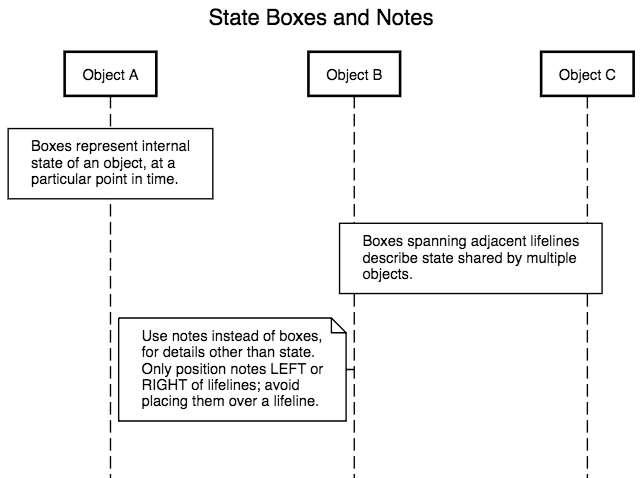
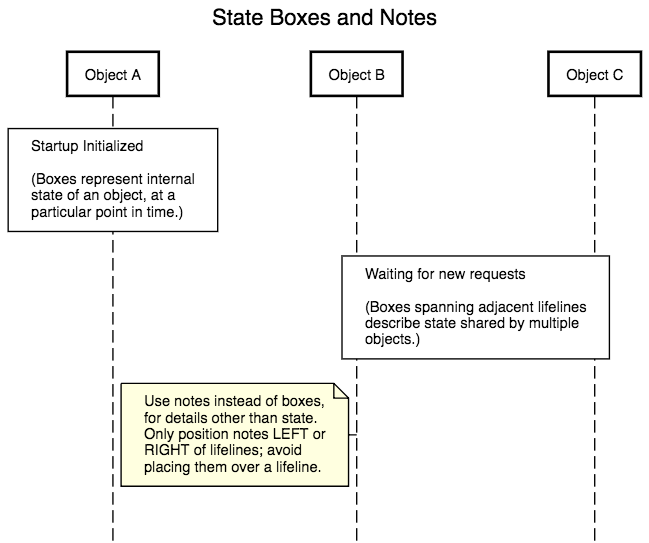
Added edits and wordsmithing for first version.

diff --git a/sequence_diagrams/doc/Sequence_Diagrams.md b/sequence_diagrams/doc/Sequence_Diagrams.md
@@ -1,10 +1,12 @@
 # Sequence Diagrams
 
-Sequence Diagrams, sometimes called Event Diagrams or Interaction Models, are depictions of active _thingies_ (objects, agents, actors, servers, processes, etc.) that interact by passing _stuff_ (messages) between each other. 
+Sequence Diagrams, sometimes called Event Diagrams or Interaction Models, are depictions of active _thingies_ (objects, agents, actors, user interfaces, servers, processes, etc.) that interact by passing _stuff_ (messages) between each other. 
 
-These diagrams are particularly useful because they directly represent the passage of time as you move down the diagram.
+Such diagrams are useful because they directly represent the passage of time as you move down the diagram. Because of this, they can be very useful in conversations about user stories.
 
-## 1. Introducing Sequence Diagrams
+This document is an introduction to these types of drawings, what they mean, and some recommendations for best practices. It is also demonstrates a web-based drawing tool called [Sequence Diagram] which was used to draw all of this documents diagrams.
+
+## 1 Introducing Sequence Diagrams
 
 To provide some motivation, here is an example sequence diagram that might have been part of a user story called "User Can Update Content". Such a user story might have several use-case scenarios which can become fairly complex but are, nevertheless, very important to understanding exactly what happens. This diagram might have been used to capture how a particular use-case, "Set in_use Status" might be designed.
 
@@ -16,29 +18,42 @@ As I hope is evident from this example, the diagram clearly communicates the ess
 
 In addition, because they are simple to draw (particularly on a whiteboard) and straightforward to understand, a complex user story might use a half-dozen or more sequence diagrams to convey edge conditions and test scenarios.
 
-But, there are a couple of problems with sequence diagrams. First, although they are easy to draw by hand, they are kind of hard to draw by computer. And Second, the full and formal conventions of sequence diagrams is more complicated than is required for our purposes.
+But, there are a couple of problems with sequence diagrams. First, although they are easy to draw by hand, they are kind of hard to draw by computer. And Second, the full and formal conventions of sequence diagrams is more complicated than is required for our purposes. These problems are addressed in the next two sections.
 
-## 2. A Drawing Tool
+## 2 Drawing Tool
 
 Trying to draw a sequence diagram with a general purpose drawing program is pretty time consuming. Although, they are pretty quick to draw on a whiteboard! 
 
-> **Hint:** I have often sketched a sequence digram during a conversation and photographed the result on the whiteboard with my phone. Although this is less than satisfying for remote meetings, in face-to-face collaborations, it's a great for rapidly fleshing out the details of a use-case or testing scenario.
+> **Recommended:** I have often sketched a sequence digram during a conversation and photographed the result on the whiteboard with my phone. Although this is less than satisfying for remote meetings, in face-to-face collaborations, it's a great for rapidly fleshing out the details of a use-case or testing scenario. If you have the chance, try it sometime.
 
-Lucky for us, there's a tool available for drawing these pretty diagrams. Check out the free web tool, [Sequence Diagram]. This tool converts a textual description into a PNG, SVG, or JPG graphic suitable for pasting into a document or a user story. It's a little creaky; but, it gets the job done.
+Lucky for us, there's a tool available for drawing these pretty diagrams. Check out the free web tool, [Sequence Diagram]. This tool converts a textual description of the diagram into a PNG, SVG, or JPG graphic suitable for pasting into a document or a user story. It's a little creaky; but, it gets the job done.
 
 > **Recommended:** Navigate to [Sequence Diagram] and click the ![](help_button.png) button icon, in the upper-left corner. This will show you all the bells and whistles.
 
-In addition to generating the pretty pictures, the [Sequence Diagram] tool also provides a WYSIWYG editor. Most of these diagrams started out by "drawing" with the mouse. After that, the diagrams were polished by some hand-edits to the source text. This turns out to be pretty fast for creating an acceptable diagram.
+In addition to generating the pretty pictures, the [Sequence Diagram] tool is also a WYSIWYG editor. These diagrams were created by "drawing" with the mouse. After that, they were polished by some hand-edits to the source text. This turns out to be pretty quick for creating an acceptable diagram.
 
-## 3. A Useful Subset of Sequence Diagram Conventions
+## 3 A Useful Subset of Sequence Diagram Conventions
 
 The formal definition of the sequence diagram notation grew out of the UML software engineering tools fad of the mid 1990's. Many conventions were adopted and rigorously defined; however, most of these conventions are overkill for our purposes.
 
 This document, describes a useful subset of the notation and the relevant textual representations used in [Sequence Diagram].
 
-> **Note:** Keep in mind that the simpler the set of conventions we adopt, the more understandable the diagrams will be to the widest possible audience. This document only shows the few sequence diagram elements I think we need to provide the most value.
+> **Note:** Keep in mind that the simpler the set of conventions we adopt, the more understandable the diagrams will be to the widest possible audience. This document shows only those diagram elements I think are needed to provide the most value.
 
-## 4. We Need Some _Thingies_
+A synopsis of this subset is described here, in one compact place, and then amplified in the rest of this document. This section may make more sense, after having read this document once.
+
+| Applies To | Best Practice |
+|---|---|
+| Thingies | Use only _participants_, _actors_, or _databases_. |
+| StateBoxes | Place _state-boxes_ "over" or "spanning" lifelines, never to the side of a lifeline. |
+| Notes | Fill _notes_ with a pale-yellow background; only place to the left or right side of a lifeline, never "over" or "spanning" a lifeline. |
+| Lifelines | Use the color of lifelines (and their thingies) to indicate identity over multiple sequence diagrams. Optional: use activations for clarity. |
+| Labels/Text | Embed `\n` characters in message labels, boxes, and notes, to limit the width of the box and keep the diagram more presentable. |
+| Fragments | Limit fragment use to just the Loop- and Alt-fragments. |
+
+Avoid, if possible, features of tool beyond this very limited subset.
+
+## 4 Let's Make Some _Thingies_
 
 The _thingies_, the objects that send/receive messages, run across the top of the diagram. There are three types of _thingies_ that are most often used:
 
@@ -67,11 +82,11 @@ Each one of these has a lifeline that is represented by a dashed line running do
 
 > **Hint:** Activations can often clarify a diagram but the gist of the sequence can usually be understood without them. I rarely take the time to draw them on a whiteboard, but I usually add them to more formally prepared diagrams. They should be treated as an optional notational convention.
 
-## 5. Making _Thingies_ Talk
+## 5 Making _Thingies_ Talk To Each Other
 
 Horizontal arrows represent messages being set from one _thingie_ to another _thingie_. There are some subtle differences in the styling of the arrows that have utility when capturing a "conversation" between _thingies_.
 
-The exact conventions for what, exactly, the line styles mean have changed over the years. For this reason, this document suggests a small set of meanings that have worked well in practice.
+The exact conventions for what, exactly, the line styles mean, have changed over the years. For this reason, this document suggests a small set of meanings that work well in practice.
 
 |       Symbology        || Meaning & Usage                |
 |:-----:|-----------------|--------------------------------|
@@ -84,13 +99,13 @@ The exact conventions for what, exactly, the line styles mean have changed over 
 
 Given two line styles and two arrowhead styles, we have four possible combinations; however, only three of these are used in common practice.
 
-The following shows an example of all three plus the very special _synchronous message to self_. This technique is used to detail something like a sub-routine call that is significant to the user-case.
+The following shows an example of all three plus the very special, and rarely used, _synchronous-message-to-self_. This technique is used to detail something like a sub-routine call that is significant to the user-case.
 
 <p align="center">
   <img src="TypesOfMessages.png">
 </p>
 
-## 6. An Example
+## 6 An Example
 
 Let's put what we've just discussed together using a fictional sequence of messages, between semi-fictional thingies. Let's start with the [Sequence Diagram] source description.
 
@@ -161,53 +176,56 @@ Pretty cool, eh?
 
 > **Best Practice:** There are many more things you can do with messages, but once again, less is more. You can model most real-world interactions with just these 3 message types.
 
-## 7. State Boxes and Notes
+## 7 State Boxes and Notes
 
-The diagrams shown so far show the _thingies_ and all the _stuff_ that passes between them. All that is pretty useful, but our sequence diagrams become much more descriptive when we can attach information to our lifelines. This information comes in the form of _state boxes_ and _notes_.
+The diagrams, shown so far, show the _thingies_ and all the _stuff_ that passes between them. All that is pretty useful, but our sequence diagrams become much more descriptive when we can attach information to the lifelines. This information comes in the form of _state boxes_ and _notes_.
 
 **State Boxes**
 
-Since the state of an object changes over time, usually, in response to messages it has received, sequence diagrams capture these states by a box that is drawn over the lifeline of the object. These boxes can also be extended to span across more than one (adjacent) object's lifeline to indicate a state that is shared or synchronized in time.
+Since the state of an object changes over time, usually, in response to messages it has received, sequence diagrams can capture these states by a box that is drawn over the lifeline of the object. These boxes can also be extended to span across more than one (adjacent) object's lifeline to indicate a state that is shared or synchronized in time.
 
-Similarly, notes are attached to lifelines, at particular points in time, and are indicated with the "turned-down-corner" box shape. The note should never appear over or spanning a lifeline, but rather, to the side of a lifeline.
+> **Best Practice:** Although several different shapes, for example, rounded boxes, are supported by [Sequence Diagram], using more than just a simple rectangle can confuse a diagram by suggesting that the shapes convey something special about the state. Avoid anything but rectangular state boxes.
 
-> **Best Practice:** Although several different shapes, for example, rounded boxes, are supported by [Sequence Diagram], using more than just simple rectangular boxes can confuse a diagram by suggesting the shapes convey something special about the state. 
+> Further, [Sequence Diagram] also supports positioning the state box adjacent to the lifeline. This too, should be avoided. In other words, only position a state box over a lifeline, or spanning adjacent lifelines.
 
-> Avoid anything but rectangular state boxes. Further, [Sequence Diagram] also supports positioning the state box adjacent to the lifeline. This too, should be avoided. In other words, only position state annotations in 1) rectangular boxes, that are 2) positioned over, or spanning lifelines.
+> The contents of a state box should be a declarative statement describing only those things pertinent to the state of the object or objects.
 
-> The contents of a state box should be a declarative statement describing only those things pertinent to the state of the object.
+**Notes**
 
-> **Note:** Please note that the [Sequence Diagram] tool doesn't allow statements to break across lines. For this reason, the trailing \\ character is used in the C-style line continuation syntax, although this isn't recognized by the tool.
+Similarly, notes are attached to lifelines, at particular points in time, and are indicated with the "turned-down-corner" box shape and a pale-yellow background color. Also, to help distinguish notes from a state boxes, and to improve the readability of the diagram, a note should never appear over, or spanning, a lifeline. Rather, notes should be positioned to the side of a lifeline.
+
+> **About Long Lines:** Please note that the [Sequence Diagram] tool doesn't allow statements to break across lines. For this reason, the trailing \\ character is used in the C-style line continuation syntax, although this isn't recognized by the tool.
 
 ``` text
 title State Boxes and Notes
 
-box over Object A:Boxes represent internal\nstate of an \
-object, at a\nparticular point in time.
+box over Object A:Startup Initialized\n\n(Boxes represent \
+internal\nstate of an object, at a\nparticular point in time.)
 
-box over Object B,Object C:Boxes spanning adjacent lifelines\n \
-describe state shared by multiple\nobjects.
+box over Object B,Object C:Waiting for new requests\n\n(Boxes \
+spanning adjacent lifelines\ndescribe state shared by \
+multiple\nobjects.)
 
-note left of Object B:Use notes instead of boxes,\nfor details \
-other than state.\nOnly position notes LEFT or\nRIGHT of \
-lifelines; avoid\nplacing them over a lifeline.
+note left of Object B #lightyellow:Use notes instead of \
+boxes,\nfor details other than state.\nOnly position notes \
+LEFT or\nRIGHT of lifelines; avoid\nplacing them over a lifeline.
 ```
 
-In this diagram we see the internal state of object A, and a common state of objects B and C, represented by boxes. Each state box contains a description of the state.
+In this diagram we see the internal state of object A, and a common state of objects B and C, represented by state boxes. Each state box should contain a description of the _thingie's_ state at that moment in time.
 
 <p align="center">
   <img src="StateBoxesAndNotes.png">
 </p>
 
-These two conventions makes it a lot easier to understand how an object's state changes over time, and to distinguish informational notes and comments from object-state.
+These two conventions let us understand how an object's state changes over time, and to distinguish informational notes and comments from an object's internal state.
 
-## 8. Fragments
+## 8 Fragments
 
-If you've made it this far, bravo! This section describes _fragments_ (as in "fragments of time") which are used to group a bunch of consecutive interactions into a block of time, and giving that block a special meaning or condition. The most important of these, are the "alt" and "loop" fragments. The "alt", lets us capture a type of `if/then` concept in our interactions. The "loop" let's us diagram, well, loops!
+If you've made it this far, bravo! This section describes _fragments_ (as in "fragments of time") which are used to group a bunch of consecutive interactions into a block and giving that block a special meaning or condition. The most important of these, are the "alt" and "loop" fragments. The "alt", lets us capture a type of "if-else" concept in our interactions. The "loop" let's us diagram, well, loops!
 
-**Hint:** Fragments start to make sequence diagrams more difficult to comprehend. We recommend using only `alt` and `loop` fragments; and then, only sparingly. Often, it's easier to make two sequence diagrams, labeled and noted appropriately, as if they were two separate use-cases.
+> **Best Practice:** Fragments start to make sequence diagrams more difficult to comprehend. We recommend using only `alt` and `loop` fragments; and then, only sparingly. Often, it's easier to make two sequence diagrams, labeled and noted appropriately, as if they were two separate use-cases.
 
-Here, we have an example diagram with both a loop-fragment and an alt-fragment, all in one sequence diagram. In the source that follows, only the parts specific to the loop and alt fragments is included.
+Here, we have an example diagram with both a loop-fragment and an alt-fragment, all in one sequence diagram. In the source that follows, only the parts specific to the loop and alt fragments is included and some indenting has been added to help make this document more readable. [Sequence Diagram] is very sensitive to this sort of whitespace and will have some trouble if you follow this syntax verbatim.
 
 ``` text
 
@@ -250,82 +268,16 @@ end
   <img src="ExampleFragments.png">
 </p>
 
-> **Best Practice:** As you can see, fragments can be useful as a diagramming technique, but at the risk of making the diagrams more challenging to comprehend. Use them when necessary, but avoid them if possible.
+As you can see, fragments can be useful as a diagramming technique, but at the risk of making the diagrams more challenging to comprehend. As was said above, use them when necessary, but avoid them if possible.
 
-## 9. Some Style Concerns
+## 9 In Closing
 
-The [Sequence Diagram] tool provides all sorts of little controls for adding style like text-emphasis and color to our diagrams. Mostly, this isn't very useful with just a couple of exceptions, noted here.
+By restricting ourselves to just the concepts that are embodied in a basic sequence diagram, we have the ability to model, brainstorm, and reason about how the _thingies_ in a system cooperate with each other to accomplish work. What's more, the resulting sequence diagram can, by adopting a more-or-less consistent diagramming practice, greatly improve our ability to document and communicate the details of these concepts.
 
-_Newlines in text and arrow labels._ This is particularly important for state boxes that have a lot of state to describe. Newlines can reduce the text width so the boxes can be kept narrow enough to fit, nicely, within the diagram. This is particularly important when there are many objects across the page which tends to make the diagram very busy.
+I hope you will find sequence diagrams as powerful a technique as I have.
 
-> **Hint:** As a rough guideline, use a newline every 20 or so characters. Generally speaking, this "line length" can be a good starting point and will get you a reasonably presentable diagram.
+The ideas in this document are pretty much from one software engineer's perspective of what makes a reasonable, but minimal set of features for effective sequence diagrams. Discussion and comments are most welcome.
 
-_Color for objects and lifelines._ Color, generally, doesn't help a lot; but, it can be effective in helping to identify the same object over multiple, related sequence diagrams. For this to work, of course, the same color for the same object must be consistent from diagram to diagram.
-
-> **Hint:** When using the _Sequence Diagram_ tool, it seems to look better to set all lifelines width a little bit thicker when using color.
-
-> Further, if you want to add color to an object, pick a good color for the object and play around with related colors for the lifeline that are reasonably legible in the document.
-
-Here is an example.
-
-``` text
-# Make the lifelines a little thicker
-# . for better ledgibility when we
-# . add color.
-
-lifelineweight 2
-
-# Define our objects, their color, and
-# . a complimentary color for their
-# . lifelines
-
-actor Customer #blue
-lifelinecolor Customer #blue
-
-participant Storefront UI #lightgray
-lifelinecolor Storefront UI #slategray
-
-participant Order Entry Server #lightseagreen
-lifelinecolor Order Entry Server #seagreen
-
-database Customer DB
-... # The rest, removed for brevity.
-```
-
-<p align="center">
-  <img src="StyleExample.png">
-</p>
-
-In other words, and generally speaking, don't bother getting fancy. It makes editing existing sequence diagram scripts more difficult and it makes the reader wonder what, if anything, a particular style is supposed to mean.
-
-## 10. Summary
-
-Let's recap this bare-bones approach to sequence diagrams. We have:
-
-* Using a tool, we have a fast way of drawing machine readable (and therefore source-control friendly), not to mention editable, sequence diagrams. Consider drawing some on a whiteboard first, and then trying to capture in the tool, later. You might find this the fastest process of all, particularly when working in-person.
-
-* We can use them to model objects and their interactions over time to precisely communicate a particular scenario. This can be particularly helpful when nailing down the details of a particular use-case within a user story.
-
-* We have objects, and more rarely actors and databases, to model the _thingies_ in our diagram. They are nearly always at the top of our diagram.
-
-* Each object has a lifeline that represents the passing of time as we follow the lifeline down the page. The lifeline will sometimes be represented as a narrow rectangle to indicate when a object is active.
-
-* Interactions, or messages, are indicated with horizontal arrows from one object's lifeline to another. We have 4 arrow types to represent those interactions:
-
-	* Solid with solid arrowhead represents a synchronous message where the sender is assumed to be blocked until a response message is received;
-	* Solid with open arrowhead represents an asynchronous message;
-	* Dashed with closed arrowhead usually represents a response to a synchronous message; and,
-	* Dashed with open arrowhead represents a message from a user/actor.
-
-* State boxes used to describe what's going on inside an object at a particular moment in time.
-
-* Fragments (short for "fragments in time") that group together a series of interactions and provide a context or condition that applies to those interactions.
-
-* And finally, we have notes for attaching additional information or comments to objects.
-
-By restricting ourselves to just these concepts that are embodied in a sequence diagram, we have the ability to model, communicate, brainstorm, reason about, and document how the _thingies_ in a system cooperate to accomplish work.
-
-
-
+Thanks for reading.
 
 [Sequence Diagram]: https://sequencediagram.org/
